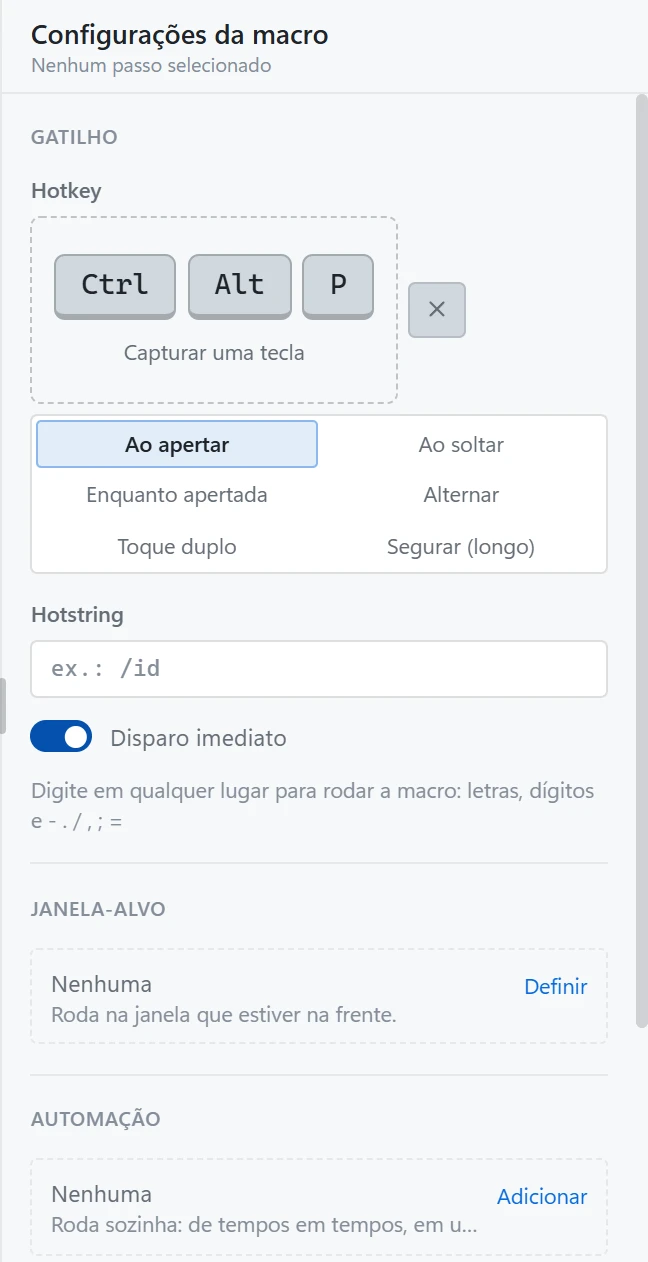
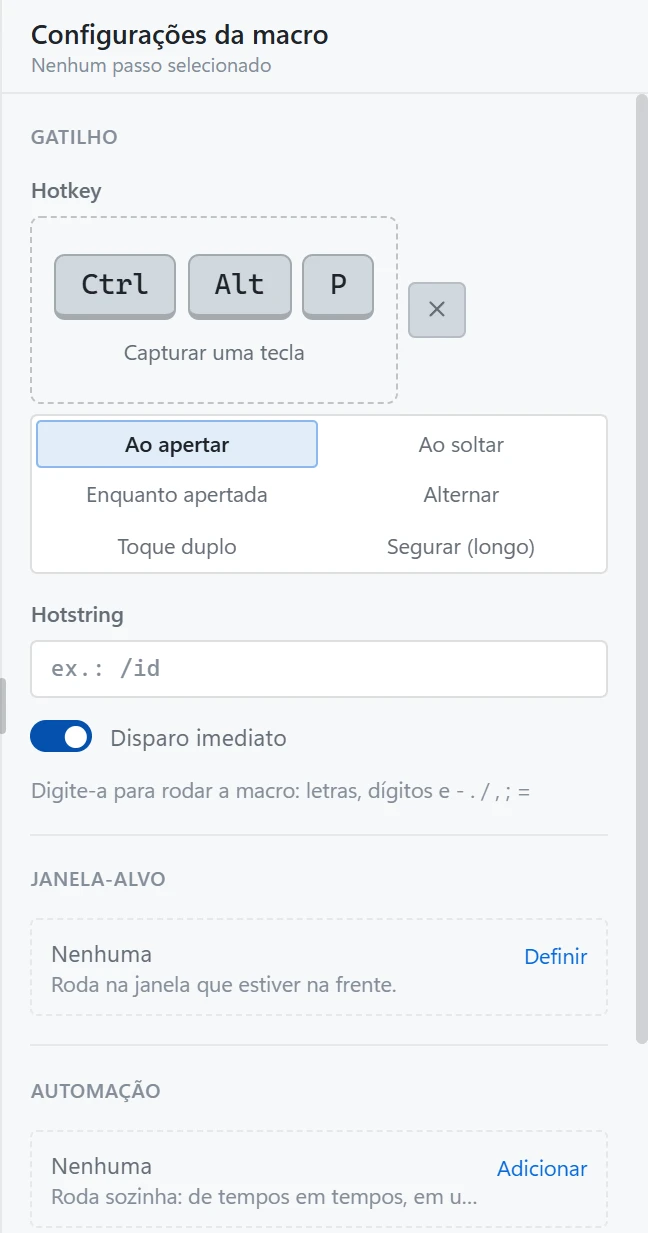
docs(manual): o rodapé na 3.0.1 e duas fotos novas
O rodapé passa a "versão 3.0.1". As fotos do primeiro uso e das
configurações da macro, nos dois temas, saem de um build da 3.0.1
(1e0993c): o passo 1 do primeiro uso diz "Inicia a gravação. Aperte de
novo para parar.", o atalho roda a macro "sem voltar ao TrueReplayer 3",
e a ajuda da hotstring diz "Digite-a para rodar a macro". O conferidor
passa com o catálogo da 3.0.1.

diff --git a/docs/manual.html b/docs/manual.html
@@ -492,7 +492,7 @@ code{font:.88em var(--font-mono);padding:.1em .35em;border-radius:5px;background
           <button class="shot-open" type="button" aria-label="Ampliar a imagem: as configurações da macro">
             <picture>
               <source data-tema="claro" srcset="img/tr3/config-macro-claro.webp" media="(prefers-color-scheme: light)">
-              <img src="img/tr3/config-macro-escuro.webp" width="648" height="1262" loading="lazy" alt="As configurações da macro no Inspector: a Hotkey Ctrl+Alt+P com os seis modos de disparo, a Hotstring, a Janela-alvo e a Automação.">
+              <img src="img/tr3/config-macro-escuro.webp" width="648" height="1232" loading="lazy" alt="As configurações da macro no Inspector: a Hotkey Ctrl+Alt+P com os seis modos de disparo, a Hotstring, a Janela-alvo e a Automação.">
             </picture>
           </button>
         </div></div>
@@ -1155,7 +1155,7 @@ code{font:.88em var(--font-mono);padding:.1em .35em;border-radius:5px;background
 <footer class="foot">
   <svg class="logo" aria-hidden="true"><use href="#marca"/></svg>
   <div>
-    <p class="footer-note"><b>Manual do TrueReplayer 3</b> · versão 3.0.0 · novembro de 2026. Passos, condições, tokens e teclas aparecem em inglês, como no app.</p>
+    <p class="footer-note"><b>Manual do TrueReplayer 3</b> · versão 3.0.1 · novembro de 2026. Passos, condições, tokens e teclas aparecem em inglês, como no app.</p>
     <p><a href="manual-tr2.html">Manual do TrueReplayer 2</a> · <a href="https://github.com/fatalihue/TrueReplayer-releases/releases/latest">Baixar o TrueReplayer 3</a></p>
   </div>
 </footer>
